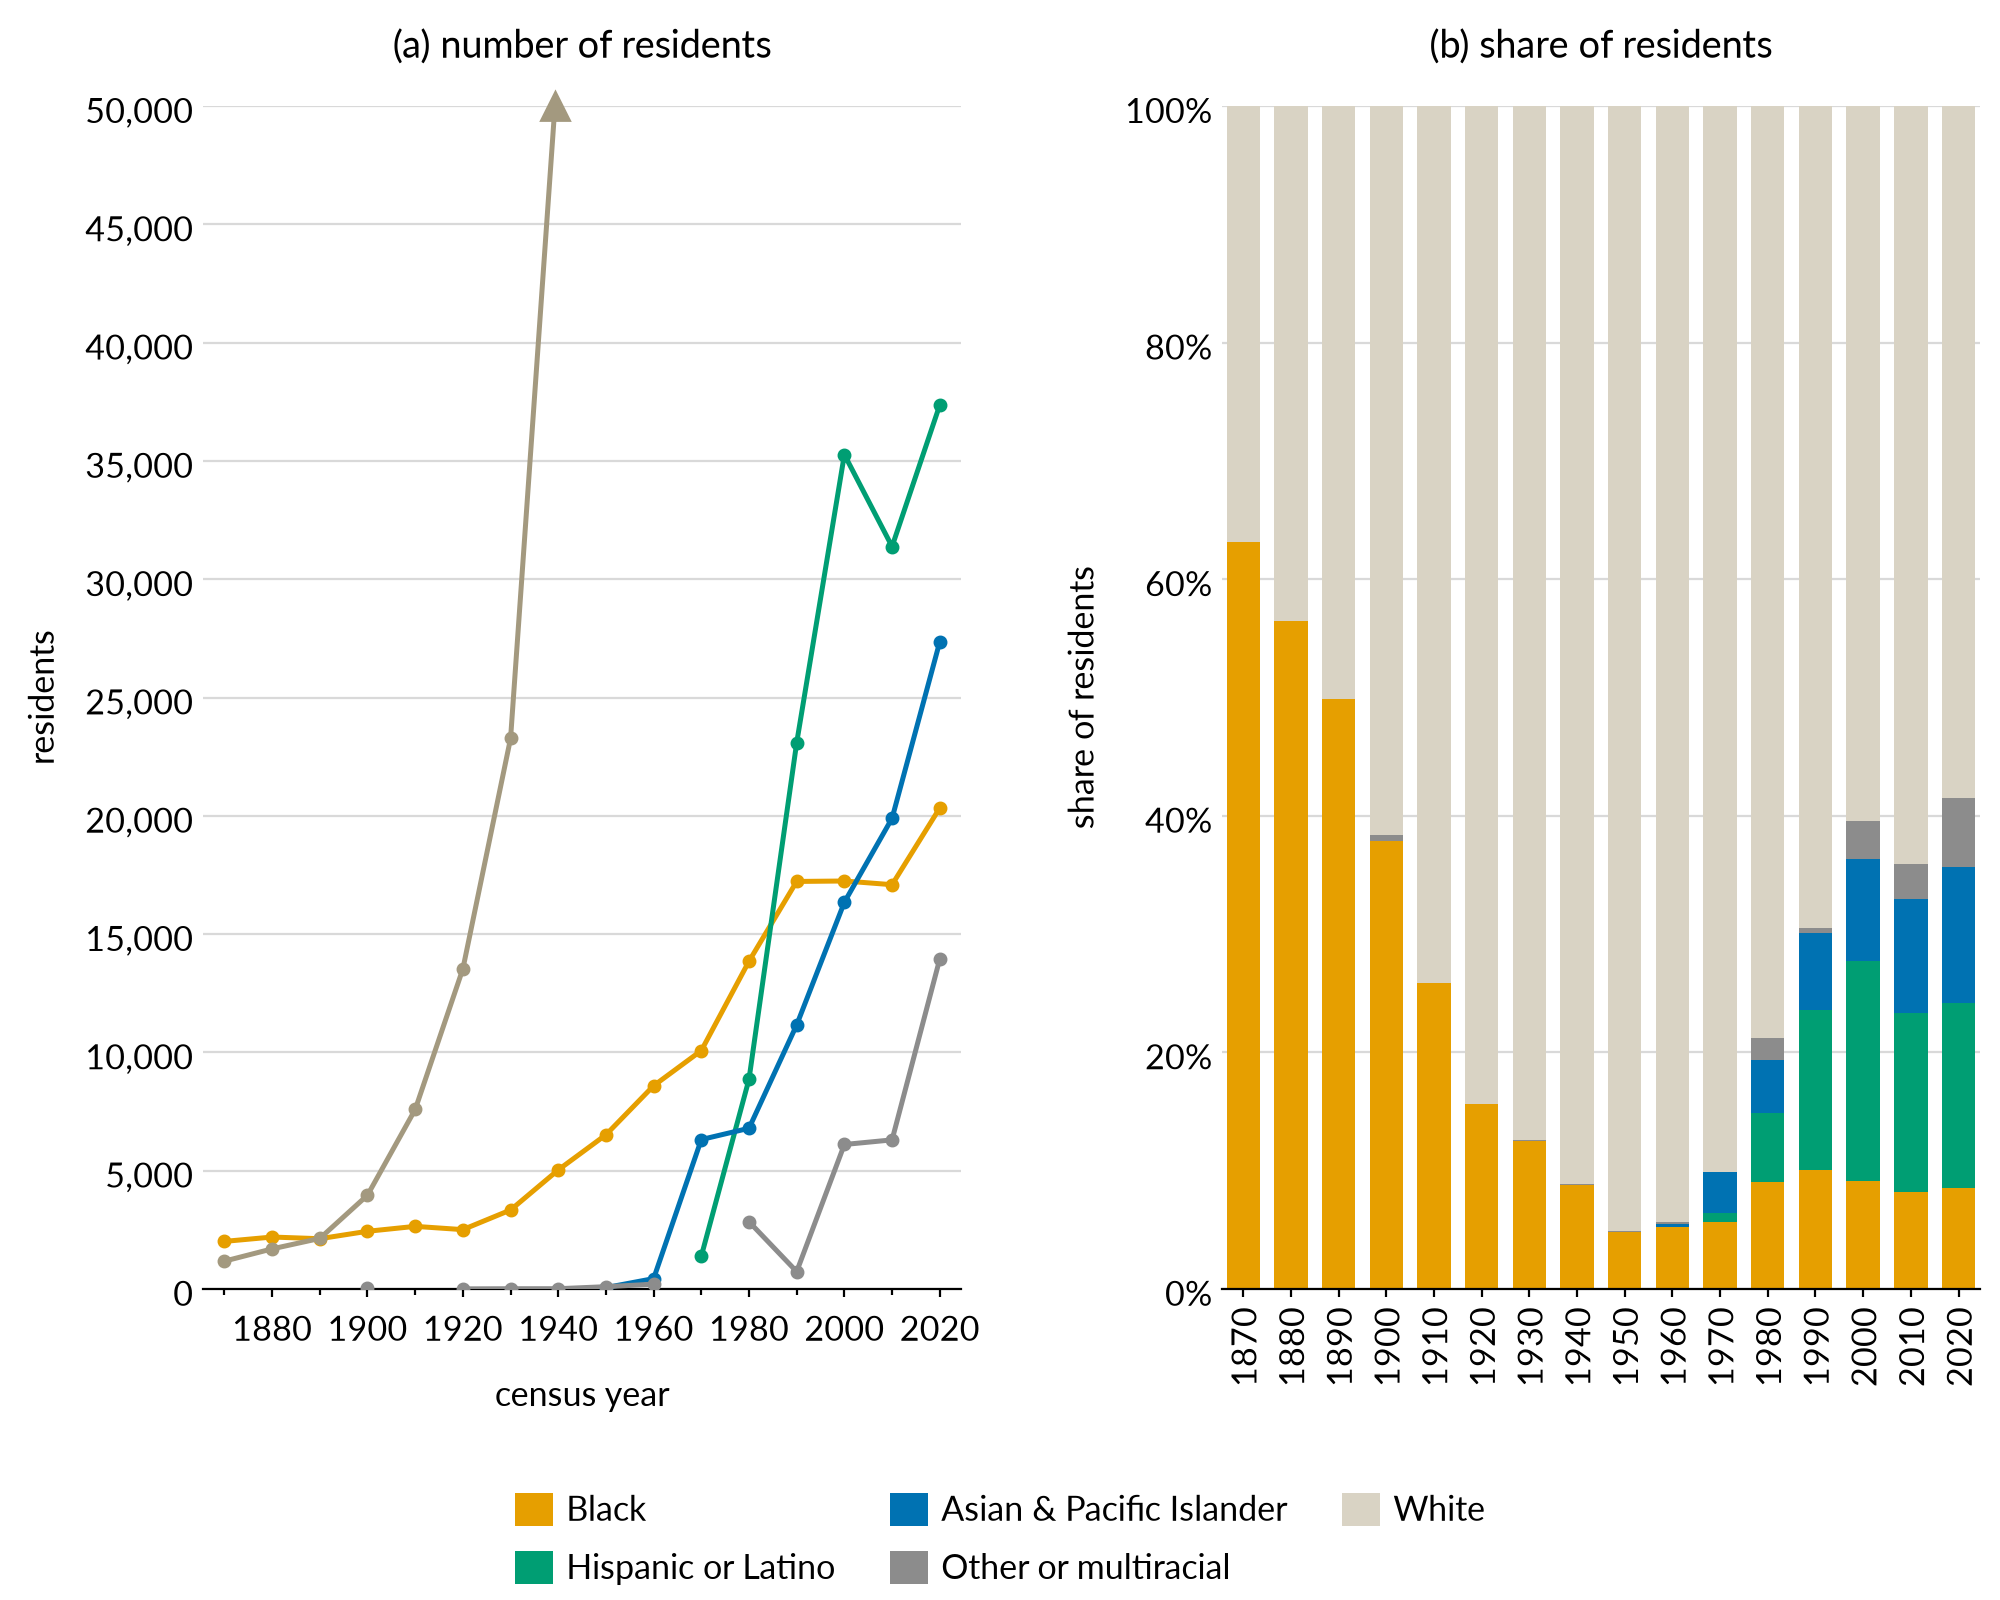
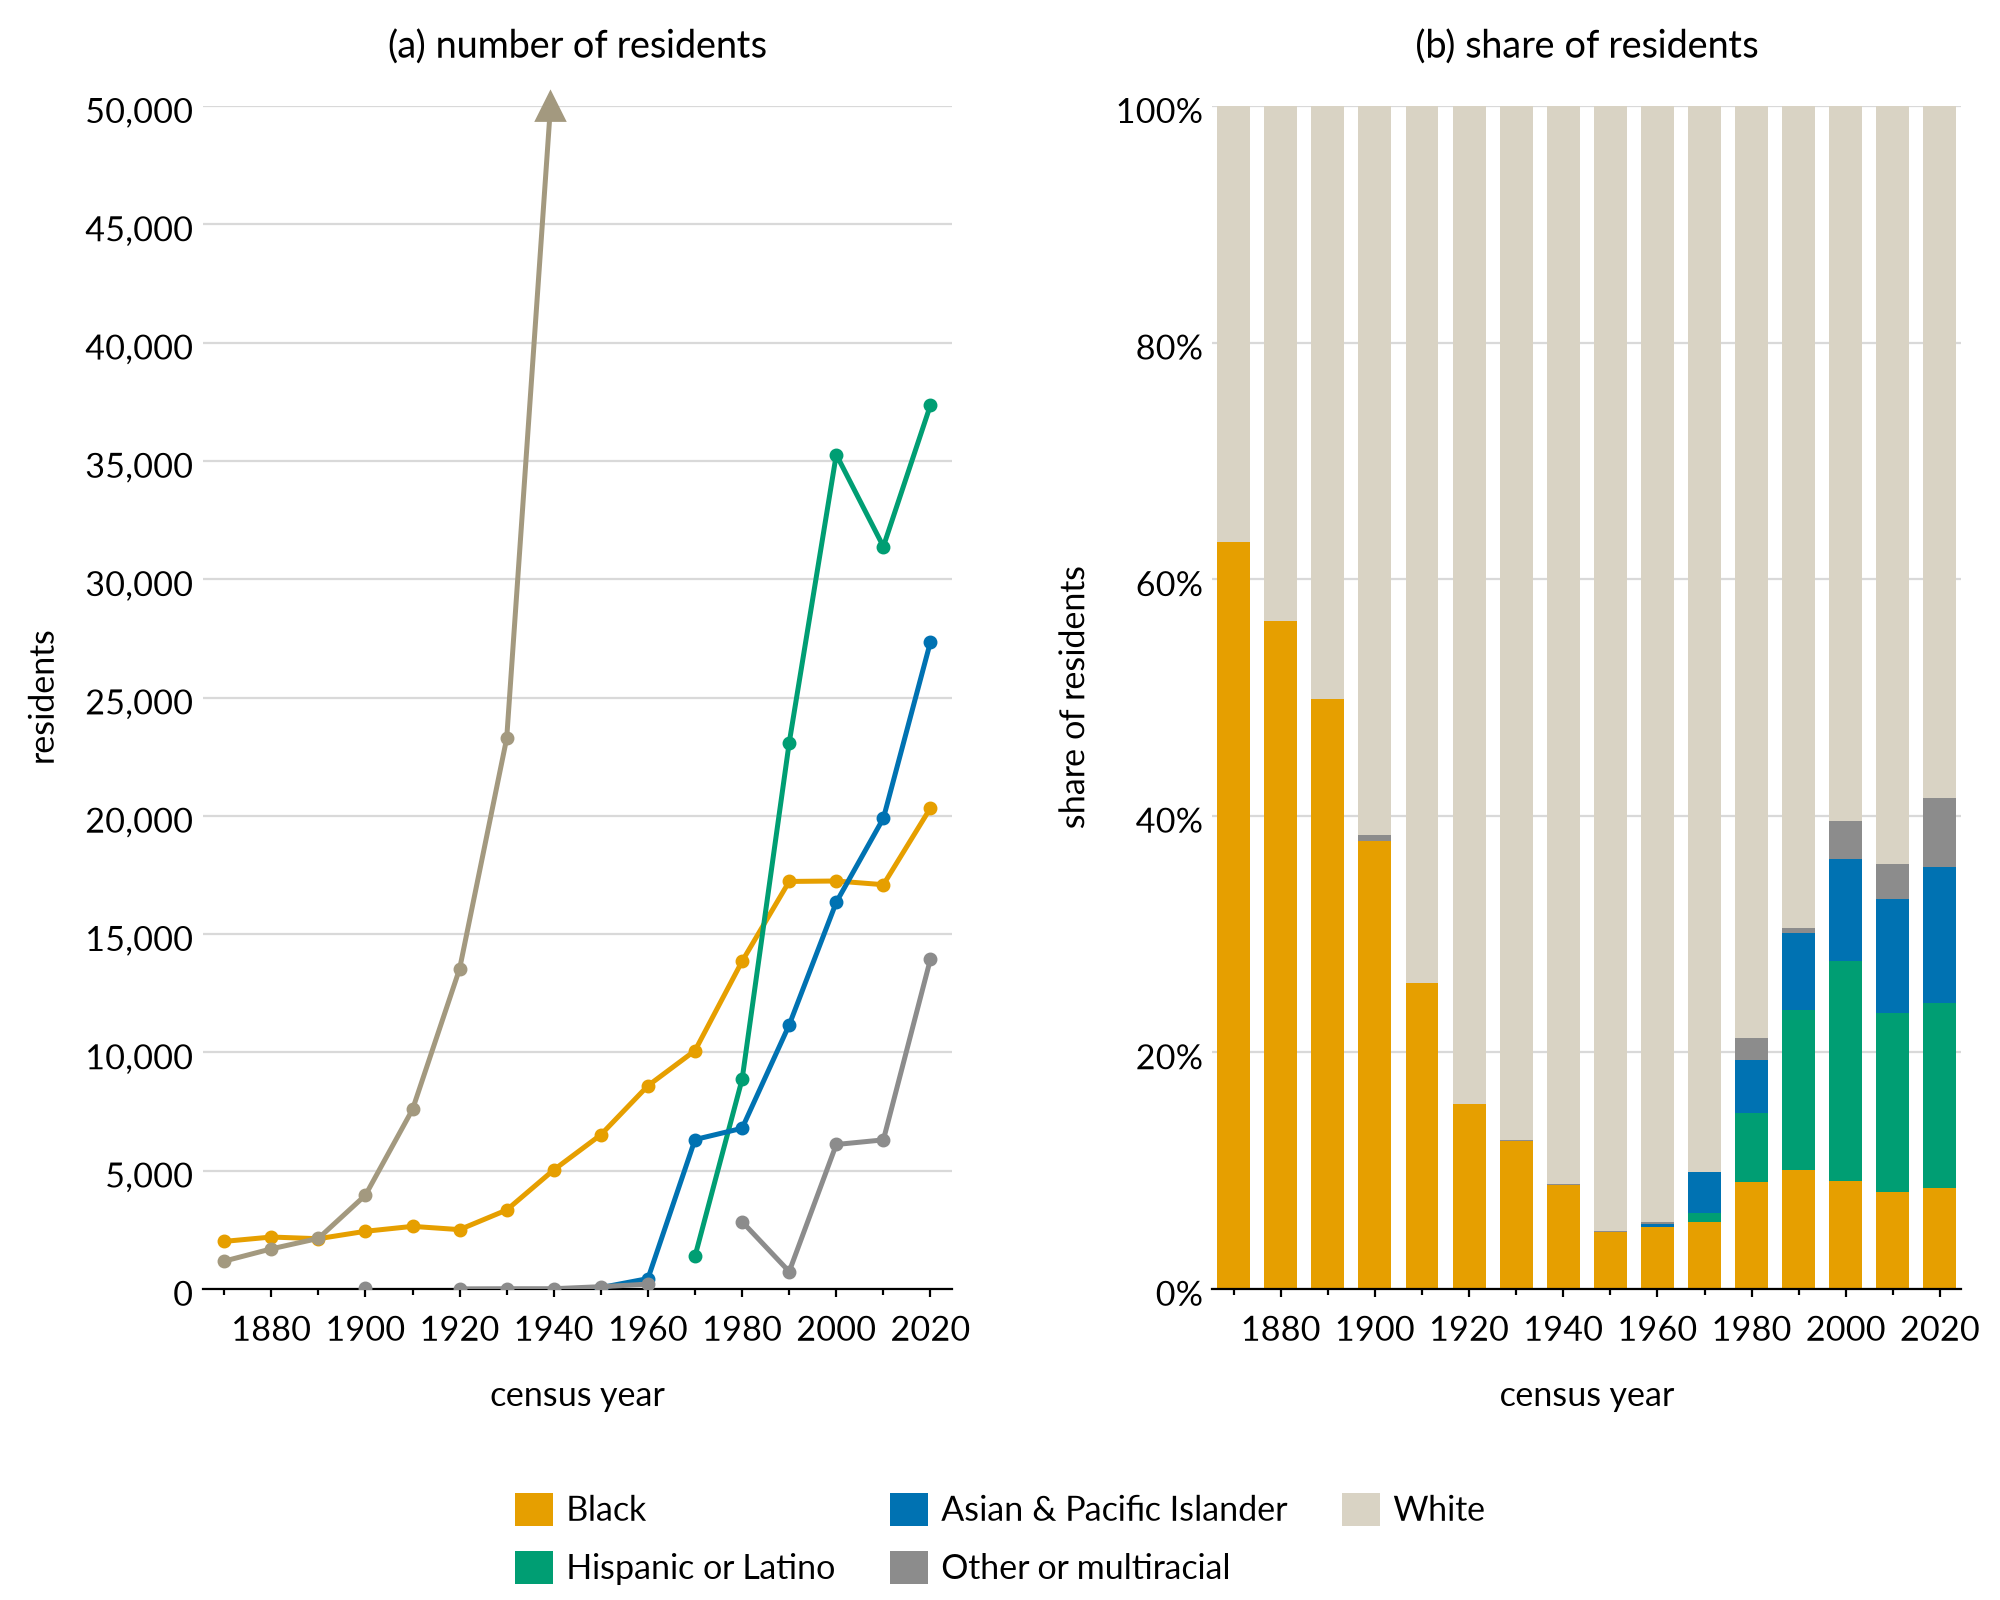
residents_by_race: both panels label years the same way
The share panel named every decade turned sideways while the counts panel
named every twentieth year horizontally, which made one figure look like
two. Both now name every twentieth year, with an unlabelled tick at each
census between.

Sixteen bars do not need sixteen labels, and rotated text is slower to
read. Nothing is lost: the minor ticks locate the unlabelled years.

diff --git a/code/analysis/residents_by_race.py b/code/analysis/residents_by_race.py
@@ -96,7 +96,7 @@ for profile in style.PROFILES:
 
     charts.stacked_bars(b, c["year"], bands(shares, residual_share))
     charts.shares(b)
-    charts.years(b, 1870, 2020, rotate=True)
+    charts.years(b, 1870, 2020, step=20)
     b.set_title("(b) share of residents")
 
     entries = {style.GROUP_LABELS[g]: style.RACE_COLORS[g]

diff --git a/.claude/skills/figures/SKILL.md b/.claude/skills/figures/SKILL.md
@@ -85,7 +85,12 @@ too, in the LaTeX caption.
 - The y-axis ends on a round tick, not just clear of the data.
 - No y-axis label that repeats the panel title.
 - Tick density has to be legible at the profile's width. Decades collide at
-  6.25in; use 20-year steps or rotate.
+  6.25in, so name every twentieth year and let the minor ticks mark the rest.
+  Prefer that to rotating the labels: rotated text is slower to read and it
+  makes a panel look unlike its neighbour.
+- **Both panels of a figure label their axes the same way.** A bar panel does
+  not need a label under every bar to be readable — the minor ticks locate the
+  unlabelled ones.
 - Where the labelled interval is wider than the data's interval, add unlabelled
   minor ticks at the data's interval, so a reader can find 1890 or 1910 on an
   axis that only names every twentieth year. `charts.years()` does this.
